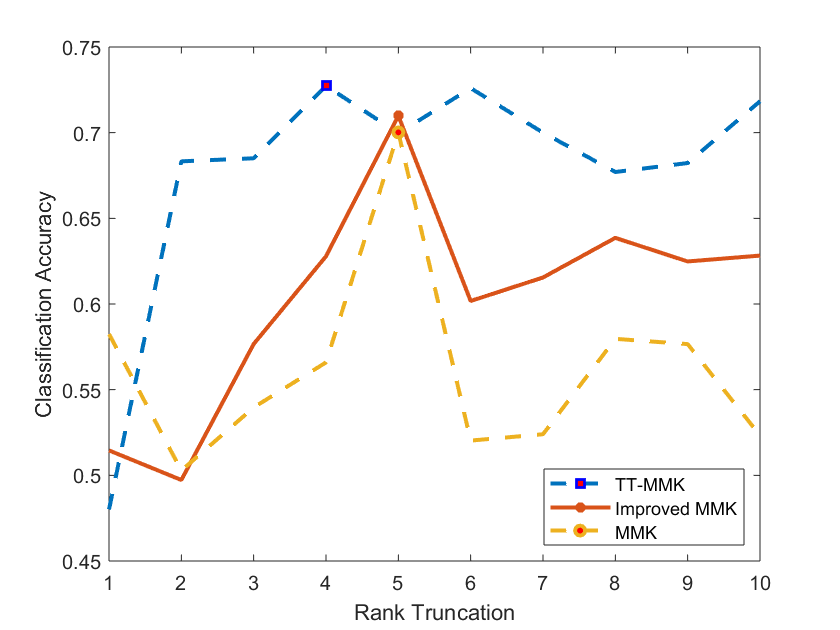
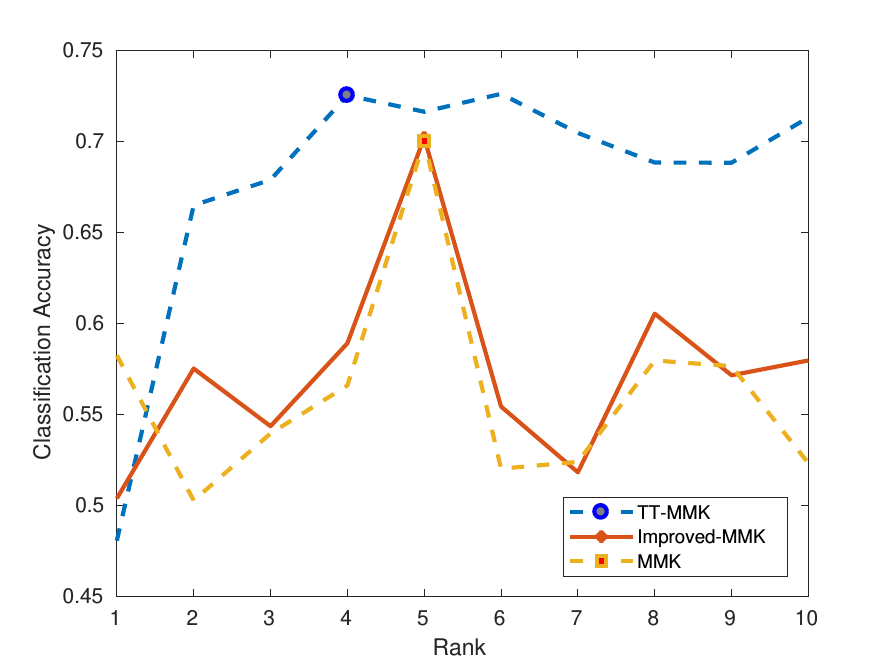
updated parameter

diff --git a/5_TTCP-MMK_SVM_code/Norm_equilirium_UoSVD_TTCP_code/Mainfile_results.m b/5_TTCP-MMK_SVM_code/Norm_equilirium_UoSVD_TTCP_code/Mainfile_results.m
@@ -12,7 +12,7 @@ addpath(genpath('../../Toolboxes/TT-Toolbox-master_UoSVD'))
 addpath(genpath('../../Toolboxes/libsvm-master/'))
 
 %% HSI_indian data
- datatype = 'hsi_indiana';
+ datatype = 'adni';
 
 switch datatype
     %% HSI Indiana dataset
@@ -114,7 +114,7 @@ dimn = size(X{1});
 % Repeat t times with k-fold cross validation 
 t = 1; % number of repitition of whole procedure
 global l % the rank has been defined as a global variable
-for l = 1:10
+for l = 4
 [data_TT,~] = TT_dec(X,l,eps); %TT factorization of input 
 
 
@@ -128,7 +128,7 @@ R2 = l;
 [CVofTTCP_ADNI, CVofTTCP_ADNI(l),trainTIMEofTTCP_ADNI] = KTTCPMain_lib(X,label,l,TT_CP_data,t);
 
 end
-
+return
 l = 1:1:10;
 save('CVofTTCP_ADNI.mat','CVofTTCP_ADNI') % mat file for accuracy output
 idxmax1 = find(CVofTTCP_ADNI == max(CVofTTCP_ADNI)); % maximum accuracy

diff --git a/1_TT_SVM_code/DuSK_TT/KTTMain1.m b/1_TT_SVM_code/DuSK_TT/KTTMain1.m
@@ -28,10 +28,10 @@ clc;
 N=size(X,1);                                                                    % Row is data number
 c=ones(1,N);  
 a=cumsum(c);
-c1=-3;                                                                 
-c2=-3;
-g1=5;
-g2=5;
+c1=-8;                                                                 
+c2=8;
+g1=-8;
+g2=8;
 acc=0;
 counttimetr=0;                                                                  % Training time
 counttimete=0;                                                                  % Test time                                                       % The rank of tensor decomposition

diff --git a/0_DuSK_code/Main.m b/0_DuSK_code/Main.m
@@ -28,10 +28,10 @@ clc;
 n=size(X,1);                                                                    % Row is data number
 c=ones(1,n);  
 a=cumsum(c);
-c1=-3;                                                                 
-c2=-3;
-g1=5;
-g2=5;
+c1=-8;                                                                 
+c2=8;
+g1=-8;
+g2=8;
 acc=0;
 counttimetr=0;                                                                  % Training time
 counttimete=0;                                                                  % Test time

diff --git a/2_TTCP_SVM_code/TTCP_wUoSVD_NE/KTTCPMain_lib.m b/2_TTCP_SVM_code/TTCP_wUoSVD_NE/KTTCPMain_lib.m
@@ -18,10 +18,10 @@ n=size(X,1);                                                                    
 c=ones(1,n);  
 a=cumsum(c);
 
-c1=-1;    
-c2=1;
-g1=-1;   
-g2=1;
+c1=-8;    
+c2=8;
+g1=-8;   
+g2=8;
 
 acc=0;
 counttimetr=0;                                                                  % Training time

diff --git a/5_TTCP-MMK_SVM_code/Norm_equilirium_UoSVD_TTCP_code/KTTCPMain_lib.m b/5_TTCP-MMK_SVM_code/Norm_equilirium_UoSVD_TTCP_code/KTTCPMain_lib.m
@@ -18,10 +18,10 @@ n=size(X,1);                                                                    
 c=ones(1,n);  
 a=cumsum(c);
 
-c1=-1;    
-c2=1;
-g1=-1;   
-g2=1;
+c1=-8;    
+c2=8;
+g1=-8;   
+g2=8;
 
 acc=0;
 counttimetr=0;                                                                  % Training time

diff --git a/1_TT_SVM_code/MMKTT_code/KTTMain_lib.m b/1_TT_SVM_code/MMKTT_code/KTTMain_lib.m
@@ -23,8 +23,8 @@ a=cumsum(c);
 
 c1=-8;     % var5
 c2=8;
-g1=-2;     % var6
-g2=10;
+g1=-8;     % var6
+g2=8;
 
 acc=0;
 counttimetr=0;                                                                  % Training time

diff --git a/3_TT_UoSVD_SVM_code/KTTMain_lib.m b/3_TT_UoSVD_SVM_code/KTTMain_lib.m
@@ -23,8 +23,8 @@ a=cumsum(c);
 
 c1=-8;     % var5
 c2=8;
-g1=-2;     % var6
-g2=10;
+g1=-8;     % var6
+g2=8;
 
 acc=0;
 counttimetr=0;                                                                  % Training time
